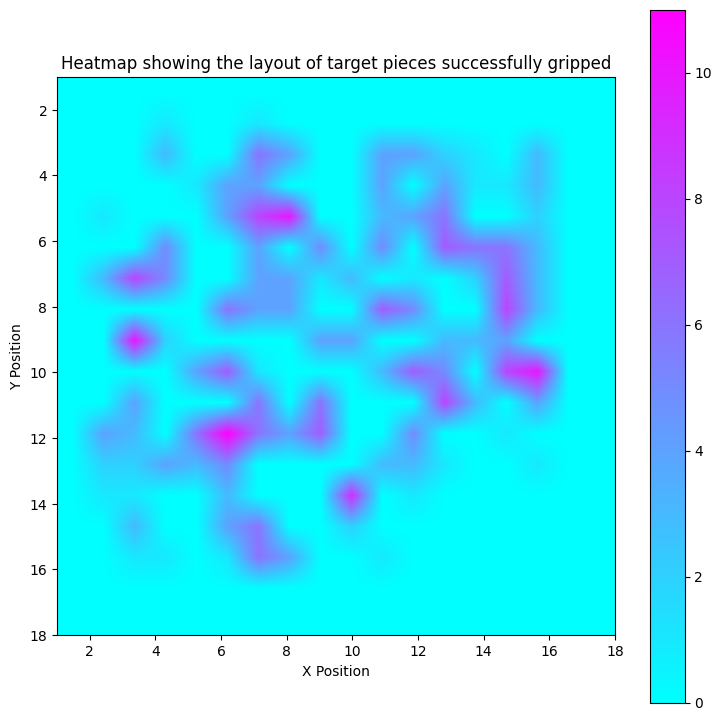
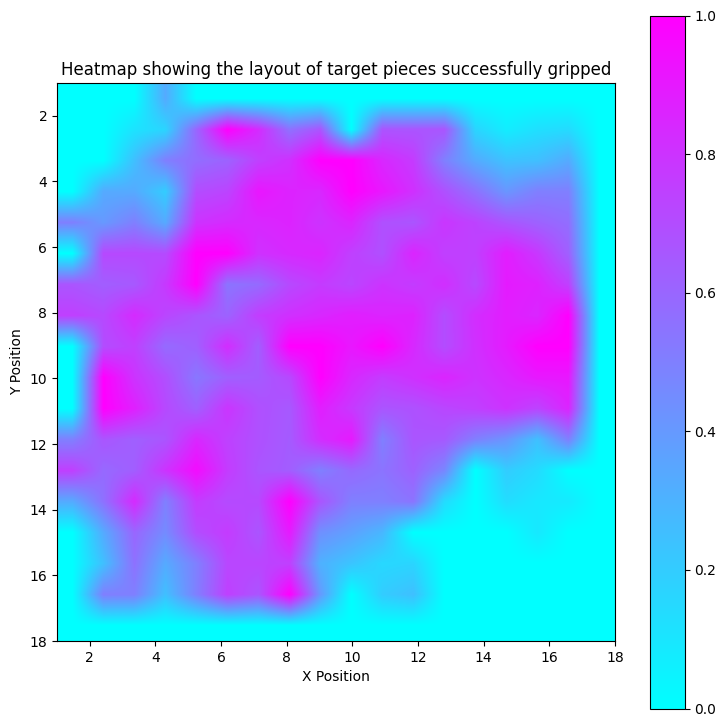
update eval

diff --git a/plots/pos.py b/plots/pos.py
@@ -56,7 +56,7 @@ def plot_by_pos(csv_path):
         predicted_position = df.iloc[i]['predicted_position']
         position = get_pos(position)
         predicted_position = get_pos(predicted_position)
-        target_dict[tuple(position)] += 1
+        # target_dict[tuple(position)] += 1
         
         if not predicted_position:
             continue
@@ -96,9 +96,13 @@ def plot_by_pos(csv_path):
             valid_positions.append([position[0], position[1]-1])
             valid_positions.append([position[0]+1, position[1]-1])
 
+        for pos in valid_positions:
+            target_dict[tuple(pos)] += 1
+
         if predicted_position in valid_positions and df.iloc[i]['last_move'] == 'grip':
             success_count += 1
-            position_dict[tuple(predicted_position)] += 1
+            for pos in valid_positions:
+                position_dict[tuple(pos)] += 1
 
     success_data = np.zeros((18, 18))
     fail_data = np.zeros((18, 18))
@@ -106,8 +110,8 @@ def plot_by_pos(csv_path):
     for i in range(18):
         for j in range(18):
             if target_dict[(i+1, j+1)]:
-                    success_data[i, j] = position_dict[(i+1, j+1)]
-                    fail_data[i, j] = target_dict[(i+1, j+1)] - position_dict[(i+1, j+1)]
+                    success_data[i, j] = position_dict[(i+1, j+1)]/target_dict[(i+1, j+1)]
+                    fail_data[i, j] = (target_dict[(i+1, j+1)] - position_dict[(i+1, j+1)])/target_dict[(i+1, j+1)]
  
     plt.figure(figsize=(9, 9))
     plt.imshow(success_data, cmap='cool', interpolation='bilinear', extent=(1, 18, 18, 1))  # Create the heatmap

diff --git a/plots/move_distributions.py b/plots/move_distributions.py
@@ -1,0 +1,34 @@
+import os
+import pandas as pd
+import json
+
+
+
+with open("additional_jsons/easy/train.json", "r") as f:
+    train_data = json.load(f)
+with open("additional_jsons/easy/val.json", "r") as f:
+    val_data = json.load(f)
+
+move_counter = {
+    'right': 0,
+    'left': 0,
+    'up': 0,
+    'down': 0
+}
+
+for i in range(len(train_data)):
+    episode_data = train_data[i]
+    for j in range(len(episode_data)):
+        move = episode_data[j]["ground_truth"]
+        if move in move_counter:
+            move_counter[move] += 1
+
+for i in range(len(val_data)):
+    episode_data = val_data[i]
+    for j in range(len(episode_data)):
+        move = episode_data[j]["ground_truth"]
+        if move in move_counter:
+            move_counter[move] += 1
+
+print(move_counter)
+ 

diff --git a/realtime_eval/evaluate_llava.py b/realtime_eval/evaluate_llava.py
@@ -25,7 +25,7 @@ class LLaVAEval():
         self.max_moves = max_moves
         self.max_len = max_length
 
-        metadata_path = os.path.join('realtime_eval', f'metadata_{self.level}.json')
+        metadata_path = os.path.join('data', level, 'metadata.json')
         with open(metadata_path, 'r') as f:
             self.metadata = json.load(f)
 

diff --git a/README.md b/README.md
@@ -105,15 +105,6 @@ To generate a csv file containing the accuracy and success rate scores for all a
 
 #### Real-time Evaluation - Offline RL
 
-##### 1) Create test board data
-
-```bash
- python realtime_eval/create_boards.py --board_size 18 --num_pieces 4 --shapes "P T X Z U W" --colours "red blue green yellow magenta cyan" --num_boards 20 --level easy --path realtime_eval
-```
-
-This saves a metadata_level.json under `realtime_eval` folder
-
-##### 2) Evaluate models
 
 ```bash
 python realtime_eval/evaluate_gpt.py --level easy --board_size 18 --max_moves 20 --max_length 10
